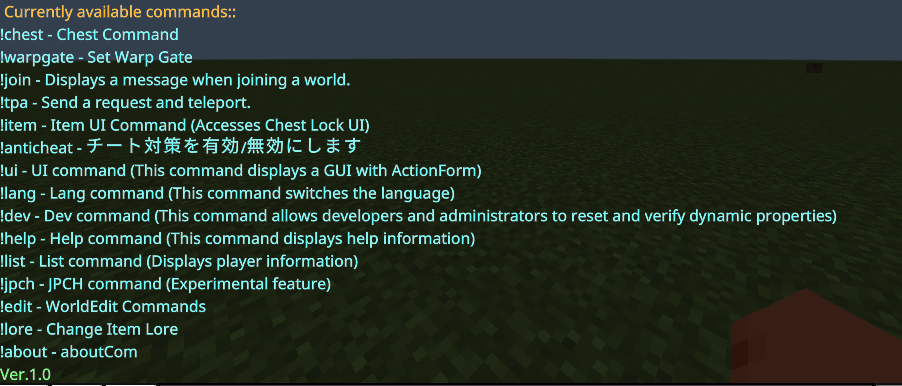
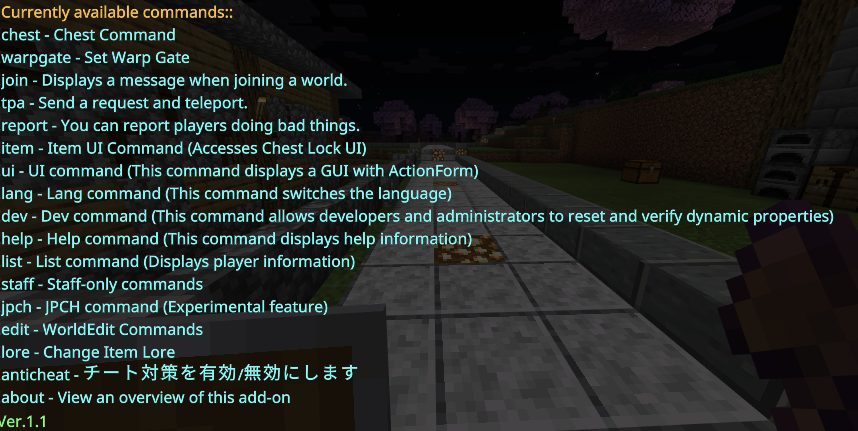
Readme v 1.1.

diff --git a/devFolder/src/command/langs/list/ja_JP.ts b/devFolder/src/command/langs/list/ja_JP.ts
@@ -57,7 +57,7 @@ export const translations = {
   },
   "command.ui.reportBody": {
     msgid: "§a== Report Menu ==\n\n§l§bReporter§f:{reporter}\n\n§l§6Reported Player§f: {reportedPlayer}\n\n§l§2Reason§f: {reason}\n\n§l§gTimestamp§f: {timestamp}\n\n§a================",
-    msgstr: "§a== レポート メニュー ==\n\n§l§b報告者§f:{reporter}\n\n§l§6報告されたプレイヤー§f: {reportedPlayer}\n\n§l§2理由§f: {reason}\n\n§l§g報告日時§f: {timestamp}\n\n§a==================="
+    msgstr: "§a== レポート メニュー ==\n\n§l§b報告者§f:{reporter}\n\n§l§6報告されたプレイヤー§f: {reportedPlayer}\n\n§l§2理由§f: {reason}\n\n§l§g報告日時§f: {timestamp}\n\n§a===================="
   },
   "command.about": {
     msgid: "§a== About ChestLockAddon ==\n\nChestLockAddon is a useful utility addon for Minecraft version 1.21.22 that provides chest protection and more.\n\n§b== Main Features ==\n• Chest Protection: Protect your chests from other players.\n• Multilingual Support: Change the language setting with the lang command.\n• Teleport Request: Send a teleport request to another player with the tpa command.\n• And more: More useful commands will be added in the future.\n\n§b== Links ==\n• GitHub: https://github.com/gamelist1990/ChestLockAddon\n• YouTube: https://www.youtube.com/@PEXkoukunn\n• Discord: https://discord.gg/GJyqBm7Pyd\n\n§c== Notes ==\nThis addon is under development and may contain unexpected bugs. If you find any bugs, please report them on GitHub or Discord.\n\n§a== Message from the Developer ==\nWe welcome your feedback to make ChestLockAddon a better addon.",

diff --git a/EN_README.md b/EN_README.md
@@ -5,55 +5,56 @@
 ## Download⬇
 ![GitHub Downloads (all assets, all releases)](https://img.shields.io/github/downloads/gamelist1990/ChestLockAddon/total?style=flat-square&logo=https%3A%2F%2Fgithub.com%2Fgamelist1990%2FChestLockAddon%2Fblob%2Fmain%2FAllAddon%2Fpack_icon.png%3Fraw%3Dtrue)
 
-[Download here👈](https://github.com/gamelist1990/ChestLockAddon/releases)
+[Download Here👈](https://github.com/gamelist1990/ChestLockAddon/releases)
 
 ## Update
 
-**Version 1.0** Many behind-the-scenes updates have been made. Please refer to the changelog below for details.
-[ChangeLog](https://github.com/gamelist1990/ChestLockAddon/compare/0.9...1.0)
+**Version 1.1** Updated to support Minecraft Version 1.21.30
+[ChangeLog](https://github.com/gamelist1990/ChestLockAddon/compare/1.0...1.1)
 
-**Changes**
-Detailed changes can be found in the ChangeLog above.
+**Changes:**
+For detailed changes, please refer to the ChangeLog above☝
 
-Here's a brief summary of the changes:
+Here is a brief summary of the changes:
 
-- Bug fixes and feature additions. Specifically:
-- Added anti-cheat to packet.ts (custom anti-cheat)
-- Organized files
-- Players without appropriate permissions will no longer see `Dev`/`list`/`join`/`warpgate`/`edit`/`anticheat` when using the help command
-- Several new commands have been added, check the command list below for details.
+- This update brings compatibility with Minecraft Version 1.21.30.
+- Includes various bug fixes.
+- Introduces a new feature: Staff command.
+- Added a report command.
 
 ![alt text](image/EN,image.png)
 
 ## Overview
 
-This code is an addon that is used by executing commands like `!help`. It supports UI elements; use `!item` or `!ui` to access them. The prefix `!` can be changed in `handler.ts`. The addon also supports multiple languages.
+This addon is operated by executing commands such as `!help`. It supports UI elements, use `!item` or `!ui` to access them. The prefix `!` can be changed in `handler.ts`. The addon is also multilingual. 
 
-If you encounter any bugs or issues, please feel free to report them on Discord or by creating an issue.
+If you encounter any bugs or issues, feel free to contact me on Discord or through Issues.
 
 ## Commands
 
-* All commands for owners require the (OP) tag, so use `/tag @s add op`.
-* **`!help`**: help command - displays a list of available commands.
-* **`!chest`**: chest command - opens the chest command menu.
-* **`!lang`**: Language command - changes the language setting.
-* **`!dev`**: Developer command - (op)
-* **`!ui`**: Added a UI command for PS4/5 users.
-* **`!jpch`**: A feature that replicates LunaChat (experimental).
-* **`!item`**:  Obtain an item that opens the UI.
-* **`!tpa`**:  Send a teleport request.
-* **`!list`**: Display player information (op).
-* **`!anticheat`**:  Usage: on|off|freeze Player |unfreeze Player (op).
-* **`!lore`**:  lore -set apple sets the description of the item you are holding. lore -rename test can also rename the item.
-* **`!join`**:  This command uses the subcommand -settings to write rules. Use (-true/-false) to toggle display (op).
-* **`!warpgate`**: This command creates warp gates. Usage: `!warpgate -create gate name TP destination coordinates`. To delete: `!warpgate -delete gate name`. To display the list: `-list`.
-* **`!about`**:  Displays an overview of this addon.
+* All owner commands require the (OP) tag, so please use `/tag @s add op`.
+* **`!help`**: Displays a list of available commands.
+* **`!chest`**: Opens the chest command menu.
+* **`!lang`**: Changes the language setting.
+* **`!dev`**: Developer command (op required).
+* **`!ui`**: Added a UI command for PS4/5.
+* **`!jpch`**: An experimental feature replicating LunaChat.
+* **`!item`**: Obtain an item that opens the UI.
+* **`!tpa`**: Send a teleport request.
+* **`!list`**: Displays player information (op required).
+* **`!antichat`**: Use with on|off|freeze Player |unfreeze Player (op required).
+* **`!lore`**:  `!lore -set apple` sets the description of the item in hand.  `!lore -rename test` renames the item in hand.
+* **`!join`**:  Use this command with subcommand -settings to set rules. Toggle display with (-true/-false) (op required).
+* **`!warpgate`**: This command allows you to create warp gates. Usage: `!warpgate -create gate_name destination_coordinates` / To delete: `!warpgate -delete gate_name` / To list gates: `-list`.
+* **`!about`**: Displays information about this addon.
+* **`!staff`**: This is a command specifically for staff (requires "staff" tag).
+* **`!report`**: Report players who are misbehaving.
 
 * More commands will be added in the future.
 
 ## Changing the Prefix
 
-The command prefix can be changed in `handler.ts`.
+You can change the command prefix in `handler.ts`.
 
 ## Multilingual Support
 
@@ -66,16 +67,16 @@ This addon supports multiple languages. Currently supported languages are:
 * **`ko_KR`**: Korean (partially supported)
 * **`fi_FI`**: Finnish (partially supported)
 
-Use the **`!lang` command** to change the language.
+You can change the language using the **`!lang` command**.
 
 ## How to Use
 
-1. Download the addon from the releases page.
-2. Enable the `-beta` experimental feature in Minecraft.
-3. Join the world and use `!help` to view the list of commands.
-4. If you are the world administrator, it is recommended to add the op tag.
+1. Download the addon from the releases.
+2. Enable the `-beta` experimental features in Minecraft.
+3. Join a world and use `!help` to see a list of commands.
+4. If you are a world administrator, it is recommended to add the "op" tag to yourself. 
 
 ## Others
 
-The language folders are located in src/command/langs/list.
-(Define the translation keys in the JSON files).
+Language folders are located at src/command/langs/list. 
+(Please define translation keys in the JSON files) 

diff --git a/README.md b/README.md
@@ -10,19 +10,18 @@
 
 ## Update
 
-**Version 1.0** 裏で色々とアップデートをしていましたが変更点は以下のログ見てね
-[ChangeLog](https://github.com/gamelist1990/ChestLockAddon/compare/0.9...1.0)
+**Version 1.1** MinecraftがVerison 1.21.30に更新したんで対応しました
+[ChangeLog](https://github.com/gamelist1990/ChestLockAddon/compare/1.0...1.1)
 
 **更新点**
 詳細な変更点は☝のChangeLogを見てね
 
 ここでは簡潔に変更点をまとめます
 
-・バグ修正と機能追加を行いました。具体的には
-・packet.tsのアンチチートの追加(自作アンチチート)
-・ファイル内の整理
-・helpコマンド使用時に適切な権限が無いプレイヤーは`Dev`/`list`/`join`/`warpgate`/`edit`/`anticheat`を表示しないようにしました
-・新コマンドは色々追加したので↓のコマンド一覧から確認してください
+・今回のアプデではMinecraft Version 1.21.30に対応しました
+・その他バグ修正
+・新機能Staffコマンド
+・reportコマンドも追加しました
 
 ![alt text](image/image.png)
 
@@ -49,6 +48,9 @@
 * **`!join`**: このコマンドはサブコマンドで-settingsを使用してルールを書けます(-true/-false)で表示の切り替え可能(op)
 * **`!warpgate`**:このコマンドはワープゲートを作成できます使用方法は`!warpgate -create ゲート名 TP先の座標` /削除する場合は `!warpgate -delete ゲート名` /リスト表示は`-list`で可能です
 * **`!about`**:このアドオンの概要を表示してくれます
+* **`!staff`**:こスタッフ専用のコマンドです(タグ:staff必要)
+* **`!report`**:悪い事をしているプレイヤーを報告できます
+
 
 
 * その他、コマンドは今後追加予定です。
